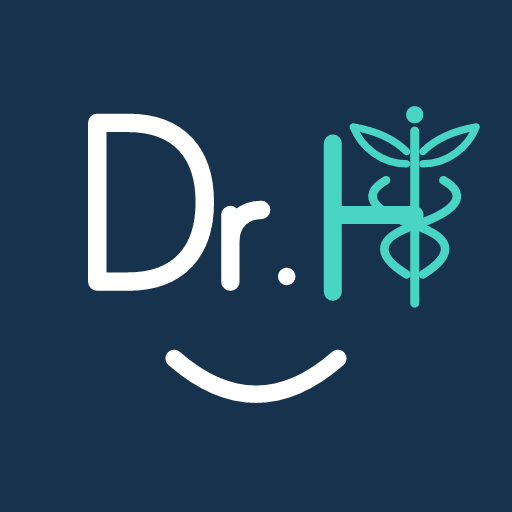
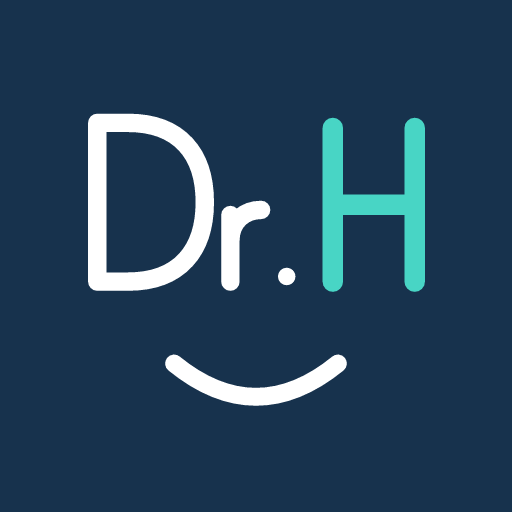
Adopt Dr H smile model 08 and play full dental demo on desktop

Changed region(s): [[0.625, 0.1875, 0.9375, 0.5938], [0.3125, 0.6875, 0.6875, 0.8125]]

diff --git a/dr happy/index.html b/dr happy/index.html
@@ -2,7 +2,7 @@
 <html lang="es">
   <head>
     <meta charset="UTF-8" />
-    <link rel="icon" type="image/svg+xml" href="%BASE_URL%favicon.svg?v=drh-01" />
+    <link rel="icon" type="image/svg+xml" href="%BASE_URL%favicon.svg?v=drh-08" />
     <meta name="viewport" content="width=device-width, initial-scale=1.0" />
     <title>Dr Happy | Historia clínica digital y Turnos</title>
     <meta name="description" content="Organizá tu consultorio con Dr Happy: historia clínica digital, odontograma interactivo, turnos y asistente Sofía IA. Probá gratis por 7 días." />
@@ -51,7 +51,7 @@
     <meta name="apple-mobile-web-app-status-bar-style" content="default" />
     <meta name="apple-mobile-web-app-title" content="DrHappy" />
     <link rel="manifest" href="%BASE_URL%manifest.webmanifest" />
-    <link rel="apple-touch-icon" href="%BASE_URL%apple-touch-icon.png?v=drh-01" />
+    <link rel="apple-touch-icon" href="%BASE_URL%apple-touch-icon.png?v=drh-08" />
     <script>
       // Redirección inmediata desde GitHub Pages hacia el dominio oficial unificado drhappy.com.ar
       (function() {

diff --git a/dr happy/src/App.tsx b/dr happy/src/App.tsx
@@ -4751,7 +4751,7 @@ function App() {
       <>
         {showBanner && !installBannerDismissed && (isMobileInstallDevice || installPromptEvent) ? (
           <section className="public-install-banner" aria-label="Instalar Dr Happy">
-            <img src={`${import.meta.env.BASE_URL}icon-192.png?v=drh-01`} alt="" width="44" height="44" />
+            <img src={`${import.meta.env.BASE_URL}icon-192.png?v=drh-08`} alt="" width="44" height="44" />
             <div><strong>Dr Happy en tu pantalla de inicio</strong><span>Abrila en un toque, sin buscar el link.</span></div>
             <button type="button" onClick={() => void handleInstallApp()}>Instalar app</button>
             <button type="button" className="install-banner-close" aria-label="Cerrar aviso de instalación" onClick={() => setInstallBannerDismissed(true)}>×</button>

diff --git a/dr happy/public/service-worker.js b/dr happy/public/service-worker.js
@@ -1,4 +1,4 @@
-const CACHE_NAME = 'drhappy-shell-v6'
+const CACHE_NAME = 'drhappy-shell-v7'
 
 self.addEventListener('install', (event) => {
   self.skipWaiting()
@@ -46,8 +46,8 @@ self.addEventListener('push', (event) => {
   const tag = (payload && payload.tag) || `drhappy-alert-${Date.now()}`
 
   const baseUrl = self.location.origin || 'https://drhappy.com.ar'
-  const iconUrl = `${baseUrl}/icon-192.png?v=drh-01`
-  const badgeUrl = `${baseUrl}/icon-192.png?v=drh-01`
+  const iconUrl = `${baseUrl}/icon-192.png?v=drh-08`
+  const badgeUrl = `${baseUrl}/icon-192.png?v=drh-08`
 
   // Opciones estándar compatibles con Android, iOS PWA, macOS y Windows
   const notificationOptions = {

diff --git a/dr happy/src/dentalPromoFlyer.css b/dr happy/src/dentalPromoFlyer.css
@@ -36,11 +36,3 @@
 @keyframes dental-promo-caption-one { 0%,24%,97%,100% { opacity: 1; } 28%,94% { opacity: 0; } }
 @keyframes dental-promo-caption-two { 0%,25%,60%,100% { opacity: 0; } 30%,56% { opacity: 1; } }
 @keyframes dental-promo-caption-three { 0%,58%,96%,100% { opacity: 0; } 63%,92% { opacity: 1; } }
-@media (prefers-reduced-motion: reduce) {
-  .dental-promo-demo * { animation: none !important; }
-  .dental-promo-overview, .dental-promo-cursor { opacity: 0; }
-  .dental-promo-detail { opacity: 1; }
-  .dental-promo-red { fill: #efa0aa; }
-  .dental-promo-blue { fill: #91b5f3; }
-  .dental-promo-caption span:nth-child(3) { opacity: 1; }
-}

diff --git a/dr happy/src/BrandMark.tsx b/dr happy/src/BrandMark.tsx
@@ -1,7 +1,7 @@
 export function BrandMark() {
   return (
     <svg viewBox="0 0 100 100" role="presentation" aria-hidden="true">
-      <image href={`${import.meta.env.BASE_URL}favicon.svg?v=drh-01`} width="100" height="100" />
+      <image href={`${import.meta.env.BASE_URL}favicon.svg?v=drh-08`} width="100" height="100" />
     </svg>
   )
 }

diff --git a/dr happy/README.md b/dr happy/README.md
@@ -10,9 +10,9 @@ Web app base en React + TypeScript para:
 
 ## Identidad visual
 
-El modelo 01 (Dr. H, caduceo integrado en la H y sonrisa) es la identidad principal. `public/brand-mark.svg` es el original vectorial; `BrandMark` muestra su copia `public/favicon.svg` en el acceso, la cabecera y la bienvenida. Los iconos PNG de 192/512 px, el icono maskable y el Apple touch icon usan el mismo diseño. La variante maskable deja el monograma dentro de la zona segura central para recortes circulares.
+El modelo 08 (monograma Dr. H con sonrisa, sin caduceo) es la identidad principal. `public/brand-mark.svg` es el original vectorial; `BrandMark` muestra su copia `public/favicon.svg` en el acceso, la cabecera y la bienvenida. Los iconos PNG de 192/512 px, el icono maskable y el Apple touch icon usan el mismo diseño. La variante maskable deja el monograma dentro de la zona segura central para recortes circulares.
 
-Las referencias de instalación llevan la versión `drh-01` para renovar los iconos sin cambiar el nombre, el inicio ni el ámbito de la PWA. El navegador puede actualizar una instalación existente, pero no se garantiza una renovación inmediata del icono del sistema; si permanece el anterior, volver a añadir el acceso o reinstalar la PWA. Esto no borra la cuenta ni sus datos en la nube. No borrar los datos del sitio.
+Las referencias de instalación llevan la versión `drh-08` para renovar los iconos sin cambiar el nombre, el inicio ni el ámbito de la PWA. El navegador puede actualizar una instalación existente, pero no se garantiza una renovación inmediata del icono del sistema; si permanece el anterior, volver a añadir el acceso o reinstalar la PWA. Esto no borra la cuenta ni sus datos en la nube. No borrar los datos del sitio.
 
 El inicio público ofrece «Instalar app» en celulares sin exigir una sesión. Si el navegador emite `beforeinstallprompt`, el botón abre su diálogo nativo; de lo contrario muestra instrucciones (Safari y Compartir en iPhone/iPad, menú de instalación en Android). El aviso automático se puede posponer siete días, pero el botón público sigue disponible. No se ofrece al abrir la PWA en modo standalone ni después de una instalación confirmada en esa visita. No es posible instalar sin confirmación del usuario ni detectar todos los accesos directos instalados desde una pestaña del navegador.
 
@@ -20,7 +20,7 @@ El inicio público ofrece «Instalar app» en celulares sin exigir una sesión. 
 
 El título SEO y las vistas previas al compartir usan «Dr Happy | Historia clínica digital y Turnos», sin restringir la marca a odontología. La descripción incluye odontograma, turnos, Sofía IA y la prueba de 7 días. Google puede elegir otro título o fragmento y necesita volver a rastrear la portada para reflejar los cambios.
 
-Los primeros flyers son Atención médica (para médicos), Odontograma, Turnera y Ambulancia; Sofía y las demás herramientas continúan debajo. El flyer dental reproduce una demostración ilustrativa de 12 segundos al pasar el mouse o tocarlo: cursor, selección de la pieza 36, ampliación y marcas por superficie en rojo y azul. La demostración ocupa el recuadro completo sin cambiar su tamaño, abrir ventanas, consultar pacientes ni guardar datos. Al retirar el mouse, perder el foco o presionar Escape vuelve la promoción; otro toque reinicia la secuencia. Con «reducir movimiento» se muestra el resultado estático.
+Los primeros flyers son Atención médica (para médicos), Odontograma, Turnera y Ambulancia; Sofía y las demás herramientas continúan debajo. El flyer dental reproduce una demostración ilustrativa de 12 segundos al pasar el mouse o tocarlo: cursor, selección de la pieza 36, ampliación y marcas por superficie en rojo y azul. La demostración ocupa el recuadro completo sin cambiar su tamaño, abrir ventanas, consultar pacientes ni guardar datos. Al retirar el mouse, perder el foco o presionar Escape vuelve la promoción; otro toque reinicia la secuencia. Esta demostración activada por el visitante reproduce la secuencia completa incluso con «reducir movimiento»; las demás animaciones de la app conservan esa preferencia.
 
 El acceso comienza plegado en «Iniciar sesión» y despliega el formulario al tocarlo. Recuperación y confirmación de email se muestran automáticamente cuando corresponden. «Crear usuario» abre todos los campos del registro en dos columnas, sin scroll interno del formulario; el fondo del modal admite desplazamiento únicamente si la pantalla o el teclado reducen el espacio disponible. El envío sigue usando el circuito de confirmación por código de email.
 
